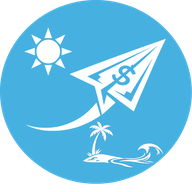
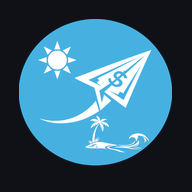
feat: refactor authentication handling by removing useAuth hook and implementing AuthContext provider

diff --git a/frontend/src/App.tsx b/frontend/src/App.tsx
@@ -1,5 +1,4 @@
-import { BrowserRouter, Routes, Route, Navigate } from 'react-router-dom';
-import { useAuth } from './hooks/useAuth';
+import { Routes, Route, Navigate } from 'react-router-dom';
 import { useAppStore } from './store/useAppStore';
 
 import Landing from './pages/Landing';
@@ -14,14 +13,9 @@ import Members from './pages/Members';
 import InviteAccept from './pages/InviteAccept';
 import Profile from './pages/Profile';
 
-function AuthInit() {
-  useAuth();
-  return null;
-}
-
 function RequireAuth({ children }: { children: JSX.Element }) {
   const { user, authLoading } = useAppStore();
-  if (authLoading) return <div className="min-h-screen bg-bg-base flex items-center justify-center text-text-muted">Loading…</div>;
+  if (authLoading) return <div className="min-h-screen bg-bg-base flex items-center justify-center"><div className="w-8 h-8 border-2 border-teal border-t-transparent rounded-full animate-spin" /></div>;
   if (!user) return <Navigate to="/" replace />;
   if (!user.homeCurrency || user.homeCurrency === '') return <Navigate to="/onboarding" replace />;
   return children;
@@ -29,23 +23,20 @@ function RequireAuth({ children }: { children: JSX.Element }) {
 
 export default function App() {
   return (
-    <BrowserRouter>
-      <AuthInit />
-      <Routes>
-        <Route path="/" element={<Landing />} />
-        <Route path="/onboarding" element={<Onboarding />} />
-        <Route path="/invite/:tripId" element={<InviteAccept />} />
-        <Route path="/dashboard" element={<RequireAuth><Dashboard /></RequireAuth>} />
-        <Route path="/trips/new" element={<RequireAuth><NewTrip /></RequireAuth>} />
-        <Route path="/trips/:tripId" element={<RequireAuth><TripDetail /></RequireAuth>} />
-        <Route path="/trips/:tripId/analytics" element={<RequireAuth><TripAnalytics /></RequireAuth>} />
-        <Route path="/trips/:tripId/expenses/new" element={<RequireAuth><AddExpense /></RequireAuth>} />
-        <Route path="/trips/:tripId/expenses/:expenseId/edit" element={<RequireAuth><AddExpense /></RequireAuth>} />
-        <Route path="/trips/:tripId/settlement" element={<RequireAuth><Settlement /></RequireAuth>} />
-        <Route path="/trips/:tripId/members" element={<RequireAuth><Members /></RequireAuth>} />
-        <Route path="/profile" element={<RequireAuth><Profile /></RequireAuth>} />
-        <Route path="*" element={<Navigate to="/" replace />} />
-      </Routes>
-    </BrowserRouter>
+    <Routes>
+      <Route path="/" element={<Landing />} />
+      <Route path="/onboarding" element={<Onboarding />} />
+      <Route path="/invite/:tripId" element={<InviteAccept />} />
+      <Route path="/dashboard" element={<RequireAuth><Dashboard /></RequireAuth>} />
+      <Route path="/trips/new" element={<RequireAuth><NewTrip /></RequireAuth>} />
+      <Route path="/trips/:tripId" element={<RequireAuth><TripDetail /></RequireAuth>} />
+      <Route path="/trips/:tripId/analytics" element={<RequireAuth><TripAnalytics /></RequireAuth>} />
+      <Route path="/trips/:tripId/expenses/new" element={<RequireAuth><AddExpense /></RequireAuth>} />
+      <Route path="/trips/:tripId/expenses/:expenseId/edit" element={<RequireAuth><AddExpense /></RequireAuth>} />
+      <Route path="/trips/:tripId/settlement" element={<RequireAuth><Settlement /></RequireAuth>} />
+      <Route path="/trips/:tripId/members" element={<RequireAuth><Members /></RequireAuth>} />
+      <Route path="/profile" element={<RequireAuth><Profile /></RequireAuth>} />
+      <Route path="*" element={<Navigate to="/" replace />} />
+    </Routes>
   );
 }

diff --git a/frontend/src/main.tsx b/frontend/src/main.tsx
@@ -1,10 +1,16 @@
 import { StrictMode } from 'react';
 import { createRoot } from 'react-dom/client';
-import './index.css';
+import { BrowserRouter } from 'react-router-dom';
+import { AuthProvider } from './contexts/AuthContext';
 import App from './App';
+import './index.css';
 
 createRoot(document.getElementById('root')!).render(
   <StrictMode>
-    <App />
+    <BrowserRouter>
+      <AuthProvider>
+        <App />
+      </AuthProvider>
+    </BrowserRouter>
   </StrictMode>,
 );